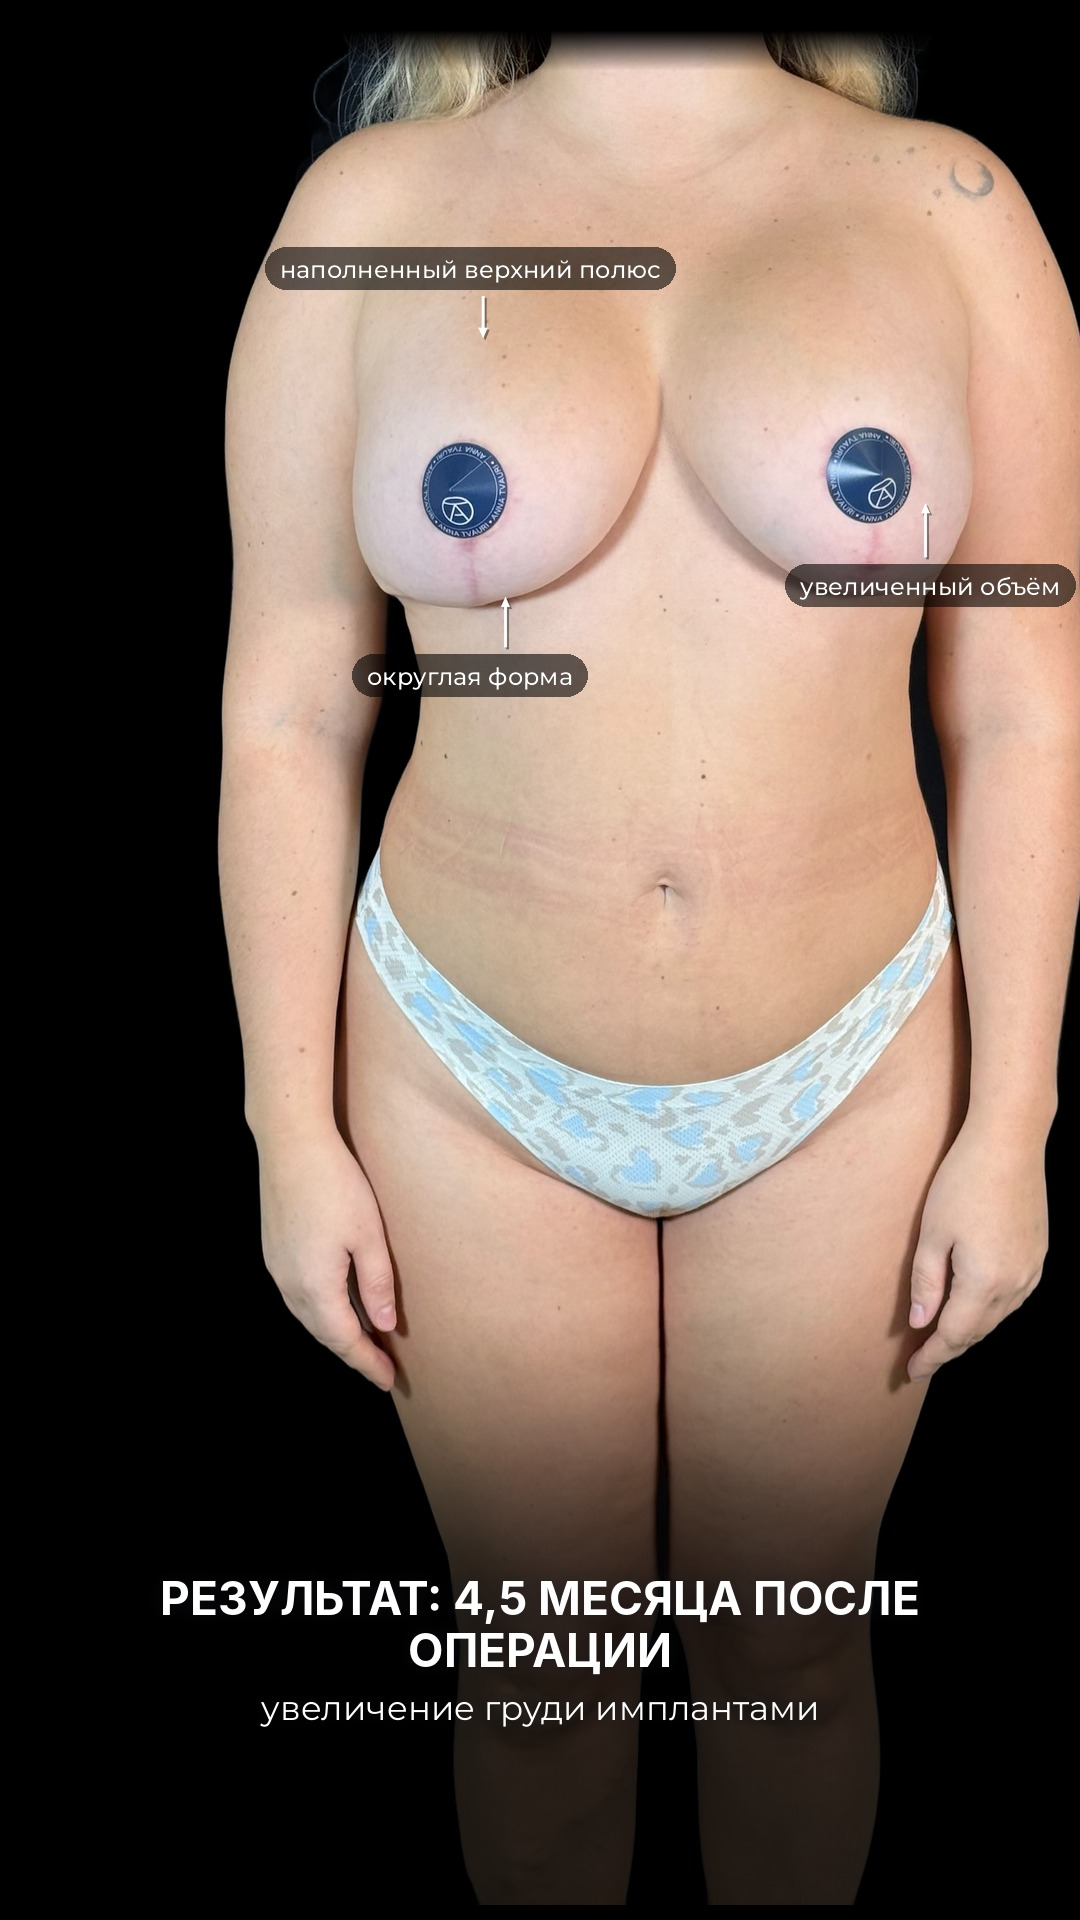
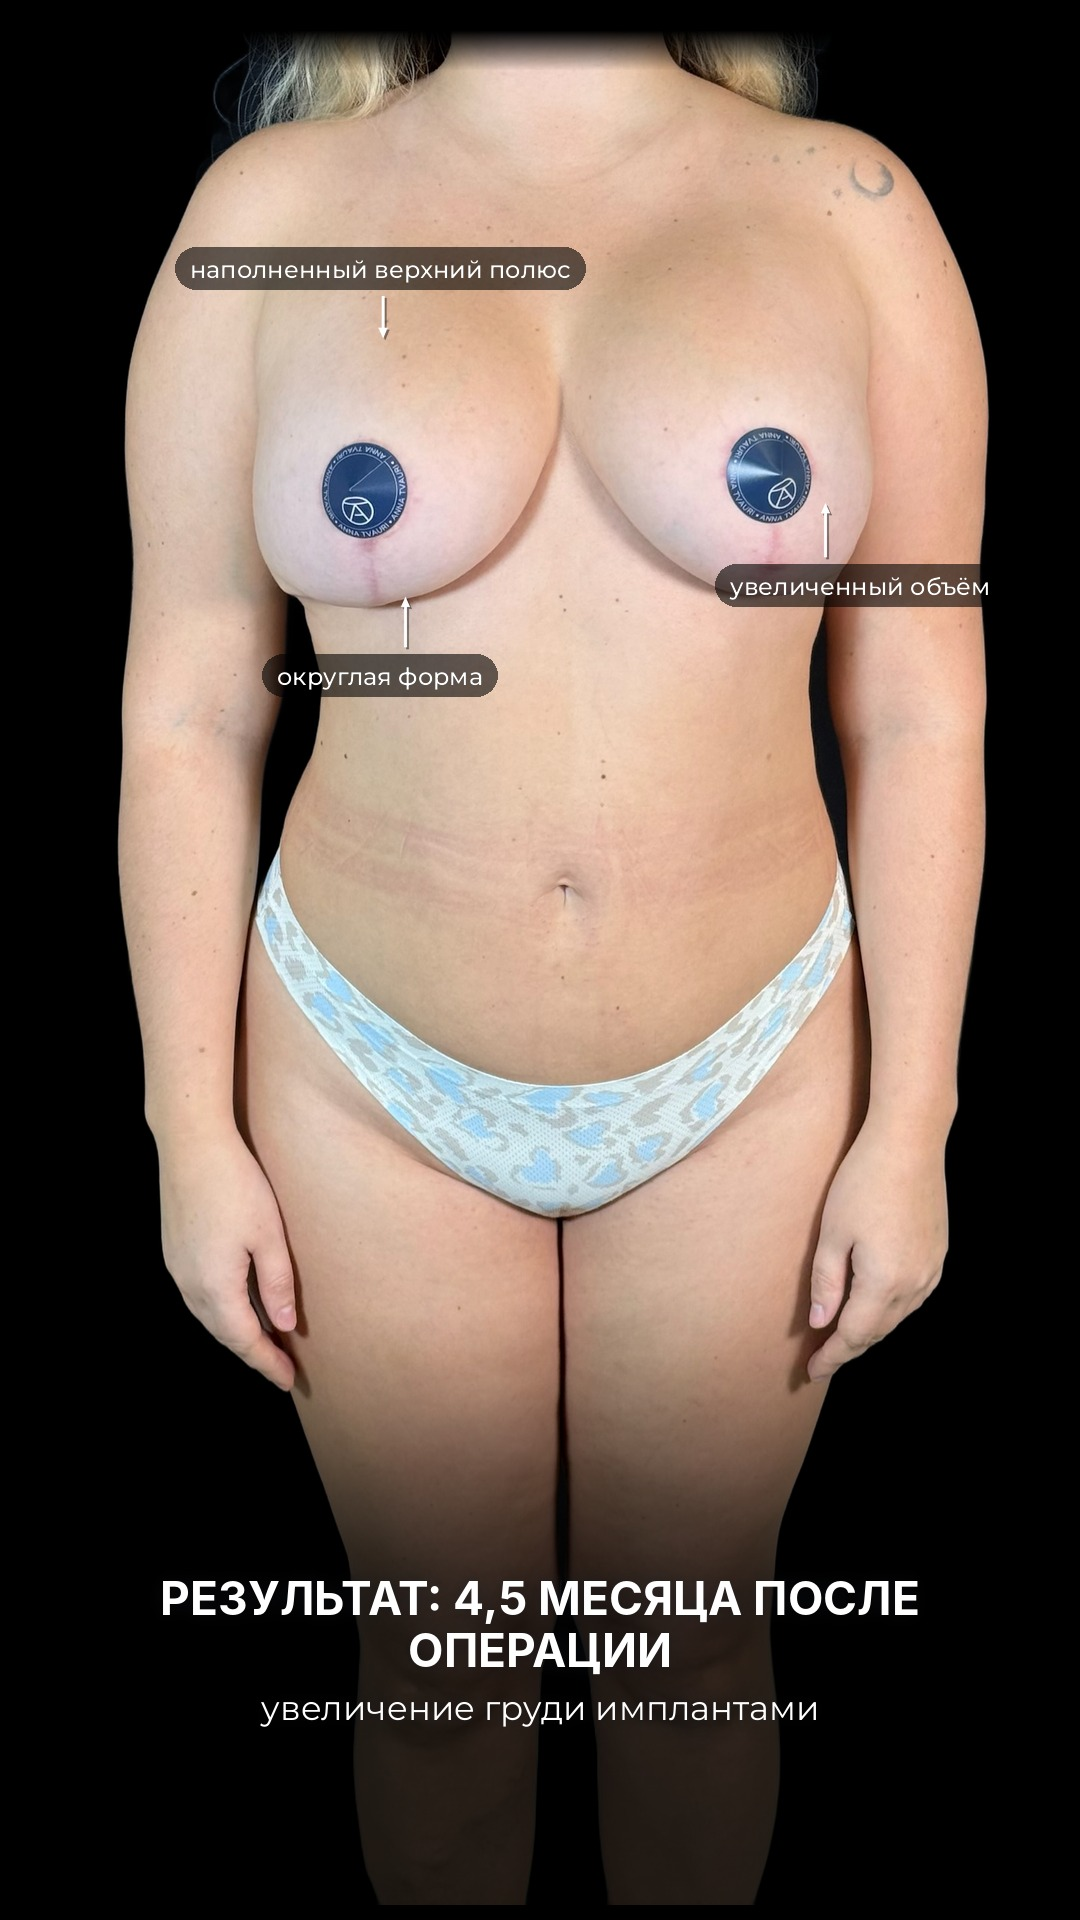
Interview stories: result body centred, bigger text on the last story
Claude-Session: https://claude.ai/code/session_01DoBoRz2HUe4yvMBz6dWv4L

diff --git a/tools/stories_implants_interview.py b/tools/stories_implants_interview.py
@@ -727,15 +727,15 @@ def cutout(name):
 
 def s6():
     # after (front), background removed, the body over the whole story; small white arrows + what was done
-    s = 0.75; ox, oy = int(210 - 196 * s), int(30 - 230 * s)
+    s = 0.75; ox, oy = int(540 - 770 * s), int(30 - 230 * s)          # body centred
     im = cutout("IMG_1588.JPG"); im = im.resize((int(im.width * s), int(im.height * s)), Image.LANCZOS)
     bg = Image.new("RGB", (W, H), (0, 0, 0)); bg.paste(im, (ox, oy))
     a = np.asarray(bg, np.float32); k = np.clip((np.arange(H, dtype=np.float32) - 30) / 40, 0, 1)[:, None, None]
     bg = Image.fromarray((a * k).astype(np.uint8)).convert("RGBA")          # clean straight cut under the chin
     def P(x, y): return (x * s + ox, y * s + oy)
-    for text, (cx, cy), tgt in [("наполненный верхний полюс", (470, 268), P(560, 640)),
-                                ("увеличенный объём", (930, 585), P(1150, 860)),
-                                ("округлая форма", (470, 675), P(590, 985))]:
+    for text, (cx, cy), tgt in [("наполненный верхний полюс", (380, 268), P(560, 640)),
+                                ("увеличенный объём", (860, 585), P(1150, 860)),
+                                ("округлая форма", (380, 675), P(590, 985))]:
         arrow_from(bg, pill(bg, text, cx, cy, size=24), tgt, width=3, head=11)
     col = Column(0, align="center")
     col.head("РЕЗУЛЬТАТ: 4,5 МЕСЯЦА ПОСЛЕ ОПЕРАЦИИ", 0, size=46, gap=10)
@@ -825,10 +825,10 @@ def s13():
     # the surgeon's markup; the patient's chin is cut off (ct), the text sits low on the right over the surgeon's back,
     # never over a face; the poll goes under it
     c = Clip("IMG_6362.MOV", 0.0, 12.0, ct=0.05, zoom=(1.0, 1.02), zc=(0.5, 0.6))
-    col = Column(1060, align="left", width=560)
-    col.head("ПОДЕЛИТЕСЬ, ЧТО ВАС СЕЙЧАС ОСТАНАВЛИВАЕТ?", 0, size=42, gap=12)
-    col.body("Почему не решаетесь, если тоже столкнулись с изменениями в теле?", 0, size=30, wght=400, gap=0)
-    for it in col.items: it.x += W - 2 * MARGIN - 560
+    col = Column(1000, align="left", width=700)
+    col.head("ПОДЕЛИТЕСЬ, ЧТО ВАС СЕЙЧАС ОСТАНАВЛИВАЕТ?", 0, size=56, gap=14)
+    col.body("Почему не решаетесь, если тоже столкнулись с изменениями в теле?", 0, size=38, wght=400, gap=0)
+    for it in col.items: it.x += W - 2 * MARGIN - 700
     print("s13 text", col.items[0].y)
     # quiz/poll under the text (~1400..1780, right): Страх наркоза/боли · Не понимаю что мне подойдёт · Восстановление с детьми · Пока просто присматриваюсь
     render(13, "chto_ostanavlivaet", 12.0, clip_bg(c), col.items, shade=black_fade(col.items[0].y + 30, 300, 0.7))
